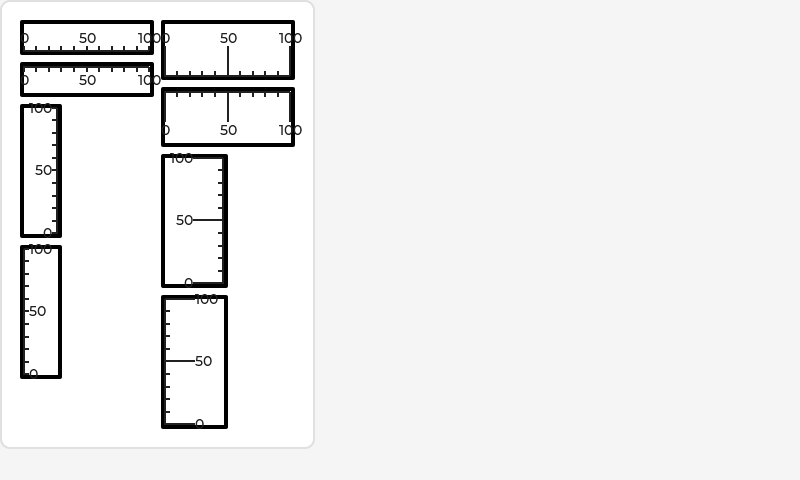
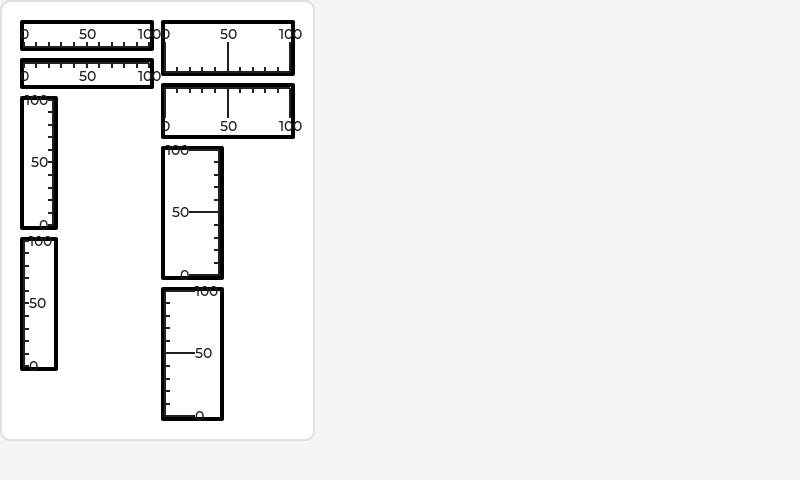
minor fixes

diff --git a/src/widgets/scale/lv_scale.c b/src/widgets/scale/lv_scale.c
@@ -804,16 +804,10 @@ static void lv_scale_event(const lv_obj_class_t * class_p, lv_event_t * event)
             return;
         }
 
-        const int32_t border_width = lv_obj_get_style_border_width_internal(obj, LV_PART_MAIN);
-        const int32_t pad_left = lv_obj_get_style_pad_left_internal(obj, LV_PART_MAIN);
-        const int32_t pad_right = lv_obj_get_style_pad_right_internal(obj, LV_PART_MAIN);
-        const int32_t pad_top = lv_obj_get_style_pad_top_internal(obj, LV_PART_MAIN);
-        const int32_t pad_bottom = lv_obj_get_style_pad_bottom_internal(obj, LV_PART_MAIN);
-
         const int32_t main_line_width = lv_obj_get_style_line_width_internal(obj, LV_PART_MAIN);
         const int32_t major_tick_len = LV_ABS(lv_obj_get_style_length_internal(obj, LV_PART_INDICATOR));
         const int32_t minor_tick_len = LV_ABS(lv_obj_get_style_length_internal(obj, LV_PART_ITEMS));
-        const int32_t max_tick_len = scale->total_tick_count == 0 ? 0 : LV_MAX(major_tick_len, minor_tick_len);
+        const int32_t max_tick_len = scale->total_tick_count <= 1 ? 0 : LV_MAX(major_tick_len, minor_tick_len);
 
         int32_t max_label_w = 0;
         int32_t max_label_h = 0;
@@ -825,13 +819,13 @@ static void lv_scale_event(const lv_obj_class_t * class_p, lv_event_t * event)
             (LV_SCALE_MODE_HORIZONTAL_BOTTOM == scale->mode || LV_SCALE_MODE_HORIZONTAL_TOP == scale->mode);
 
         if(is_horizontal) {
-            int32_t self_h = (border_width * 2) + pad_top + pad_bottom + main_line_width + max_tick_len;
+            int32_t self_h = main_line_width + max_tick_len;
 
             if(scale->label_enabled && max_label_h > 0) {
                 int32_t label_pad = (LV_SCALE_MODE_HORIZONTAL_BOTTOM == scale->mode)
                                     ? lv_obj_get_style_pad_bottom_internal(obj, LV_PART_INDICATOR)
                                     : lv_obj_get_style_pad_top_internal(obj, LV_PART_INDICATOR);
-                int32_t label_translate = LV_ABS(lv_obj_get_style_translate_y_internal(obj, LV_PART_INDICATOR));
+                int32_t label_translate = lv_obj_get_style_translate_y_internal(obj, LV_PART_INDICATOR);
 
                 /*Don't change the self size if moved inwards*/
                 if(scale->mode == LV_SCALE_MODE_HORIZONTAL_BOTTOM && label_translate < 0) label_translate = 0;
@@ -843,13 +837,13 @@ static void lv_scale_event(const lv_obj_class_t * class_p, lv_event_t * event)
             p->y = LV_MAX(p->y, self_h);
         }
         else {
-            int32_t self_w = (border_width * 2) + pad_left + pad_right + main_line_width + max_tick_len;
+            int32_t self_w = main_line_width + max_tick_len;
 
             if(scale->label_enabled && max_label_w > 0) {
                 int32_t label_pad = (LV_SCALE_MODE_VERTICAL_LEFT == scale->mode)
                                     ? lv_obj_get_style_pad_left_internal(obj, LV_PART_INDICATOR)
                                     : lv_obj_get_style_pad_right_internal(obj, LV_PART_INDICATOR);
-                int32_t label_translate = LV_ABS(lv_obj_get_style_translate_x_internal(obj, LV_PART_INDICATOR));
+                int32_t label_translate = lv_obj_get_style_translate_x_internal(obj, LV_PART_INDICATOR);
                 self_w += label_pad + max_label_w + label_translate;
 
                 /*Don't change the self size if moved inwards*/
